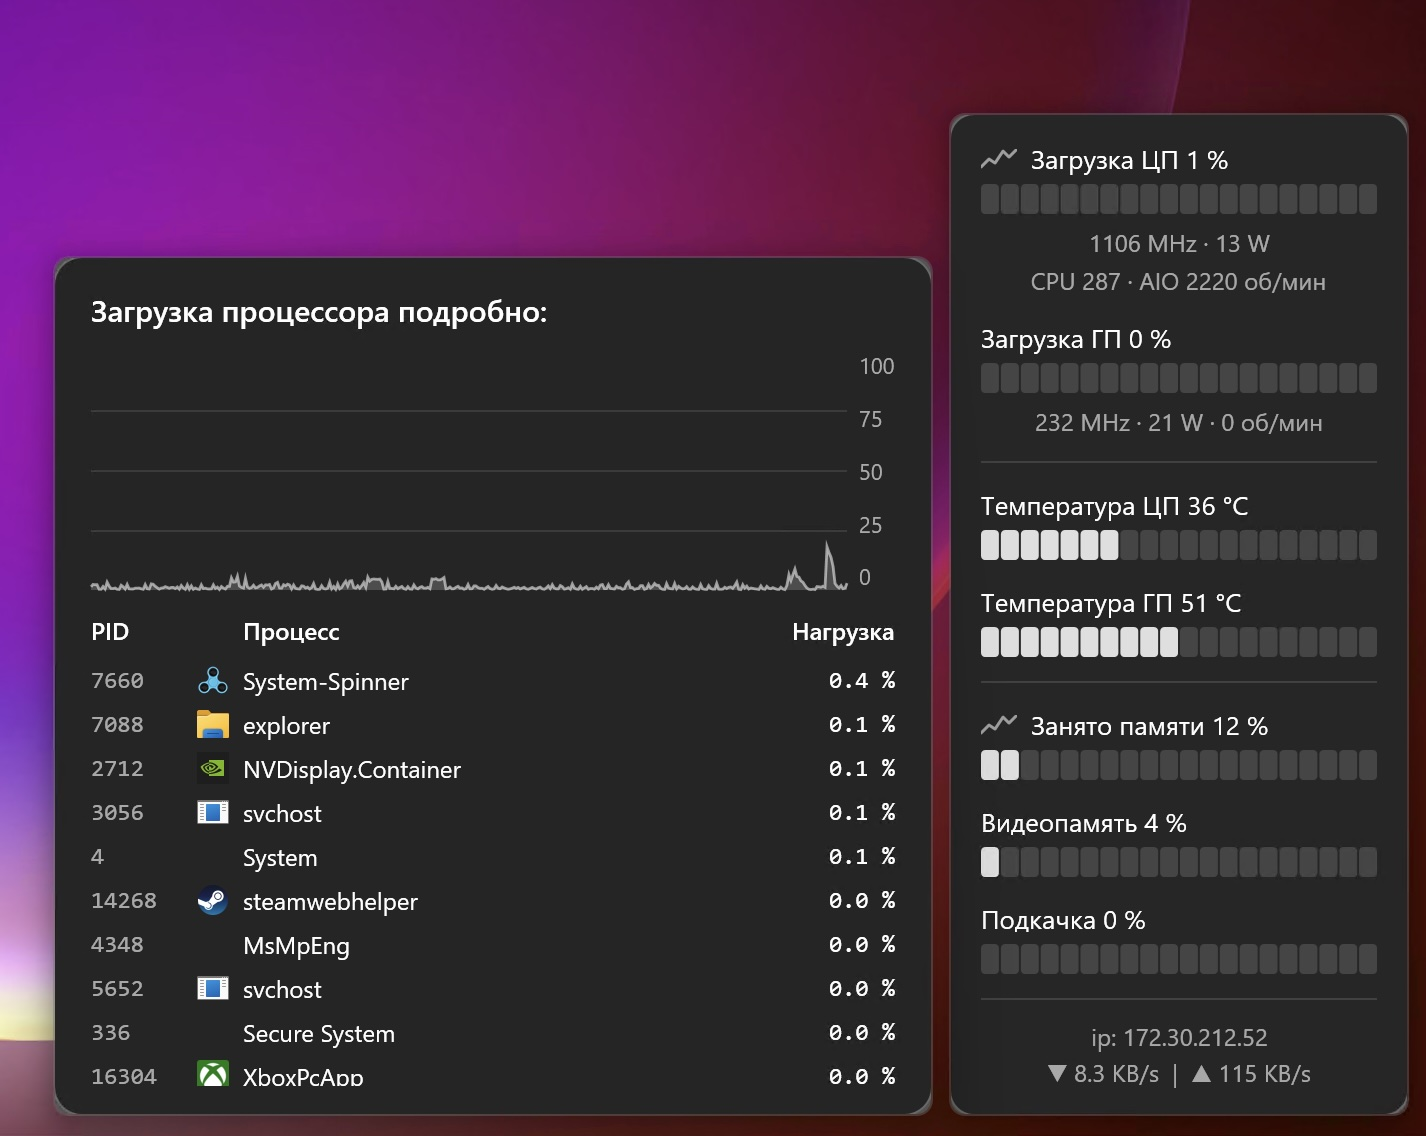
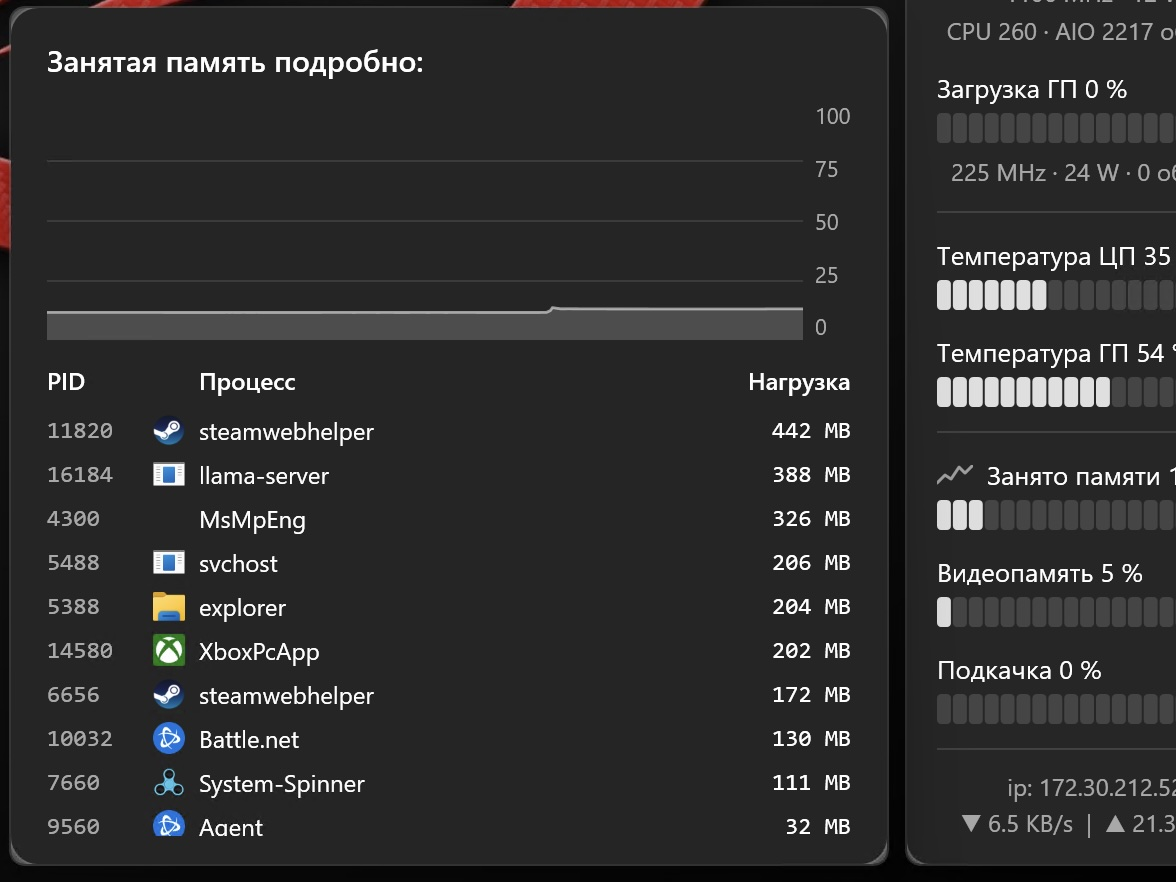
Version 1.6

diff --git a/readme.md b/readme.md
@@ -25,6 +25,7 @@ This is the Windows version. If you are looking for macOS, go to [System Spinner
 - Customisable game overlay in full-screen mode
 - Localisation (English, Arabic, Chinese, French, German, Italian, Japanese, Russian)
 - Black list for some apllication in FullScreen mode
+- If motherboard has HID ARGB controll (Asus, Nollye in future), you can enable sunlight flow lighting
 
 *WARNING: the application is not officially signed, so Windows will ask you to allow it to run.*
 
@@ -36,6 +37,7 @@ This application uses **PawnIO** — [pawnio.eu](https://pawnio.eu) — for low-
   <img src="pictures/main_window.jpg" height="380">
   <img src="pictures/spin_menu.jpg" height="380">
   <img src="pictures/main_detail_window.jpg" height="380">
+  <img src="pictures/argb_control.jpg" height="380">
 </p>
 
 ## Tech

diff --git a/changelog.md b/changelog.md
@@ -1,5 +1,11 @@
 # Changelog
 
+## 1.6
+
+* Add new spinners: Football and Wheel
+* Sun and Moon now is colored
+* Bugfix
+
 ## 1.5
 
 * Add Aura argb controll if supported
